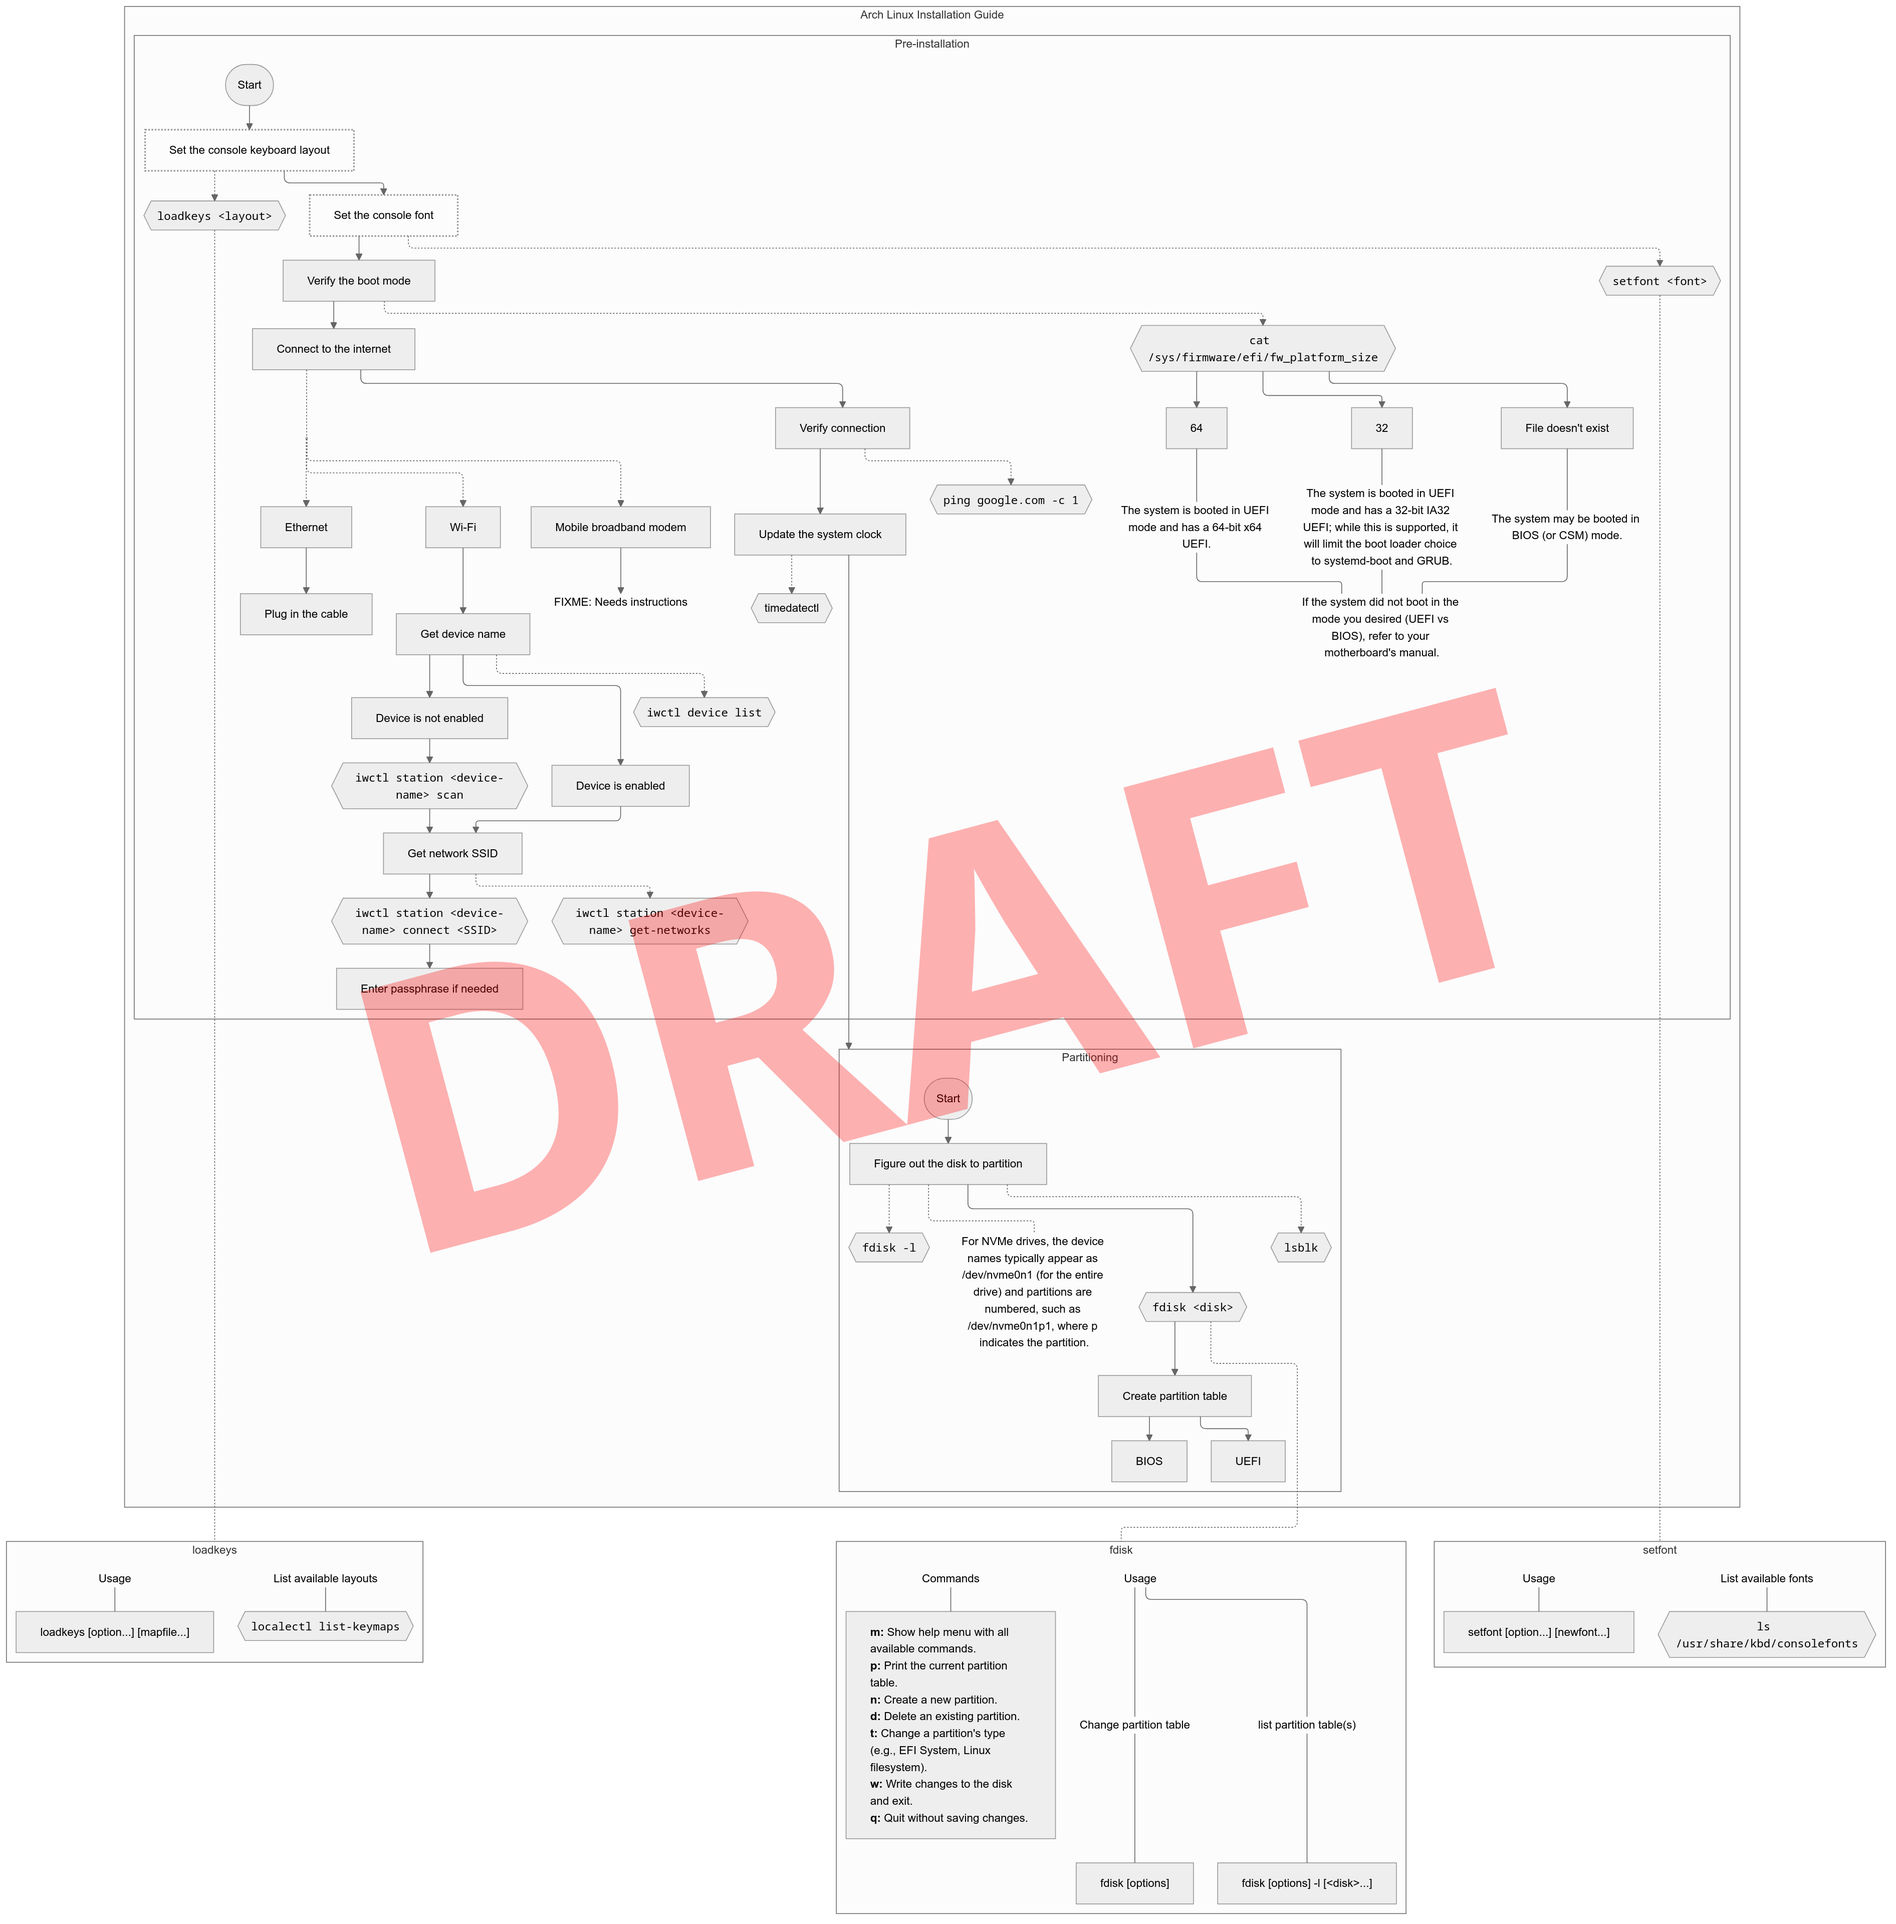
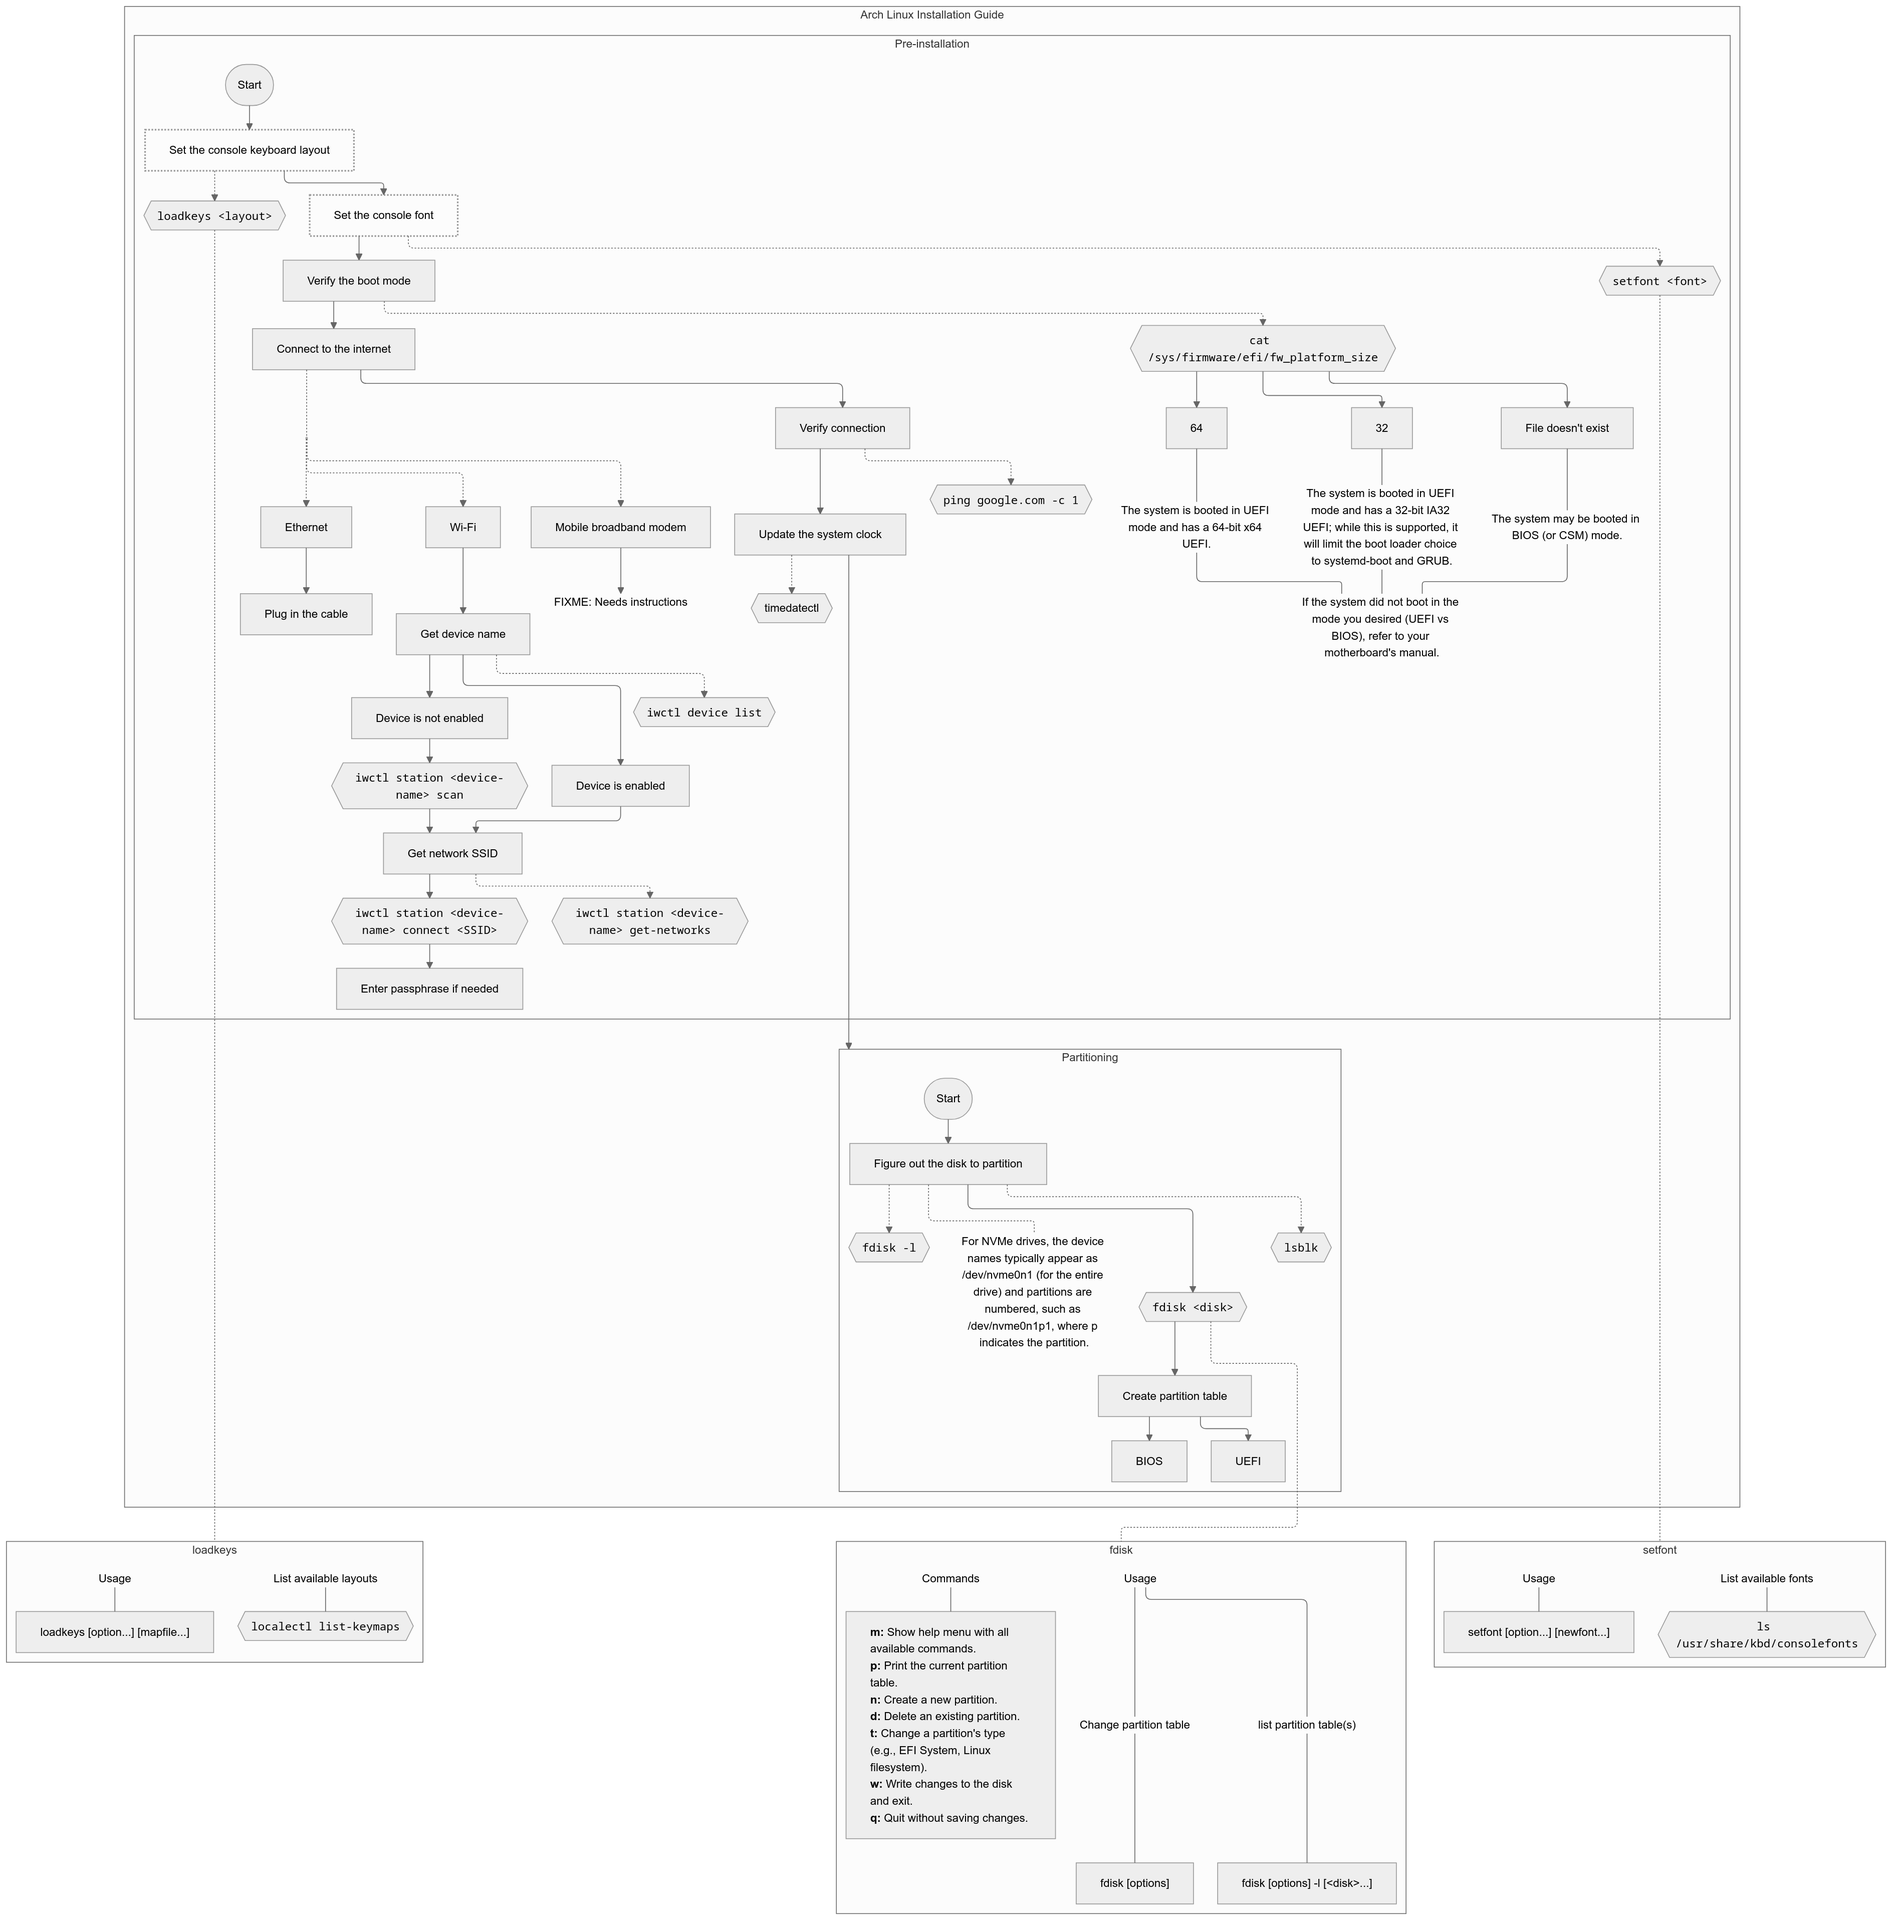
include unwatermarked version and use that when click on readme watermarked preview

Changed region(s): [[0.1871, 0.3438, 0.8108, 0.6562]]

diff --git a/README.md b/README.md
@@ -5,5 +5,5 @@ this is a flowchart the arch linux installation guide
 currently a work in progress
 
 <a href="installation-guide.png" target="_blank">
-	<img src="installation-guide.png" width="100%">
+	<img src="installation-guide-watermarked.png" width="100%">
 </a>
